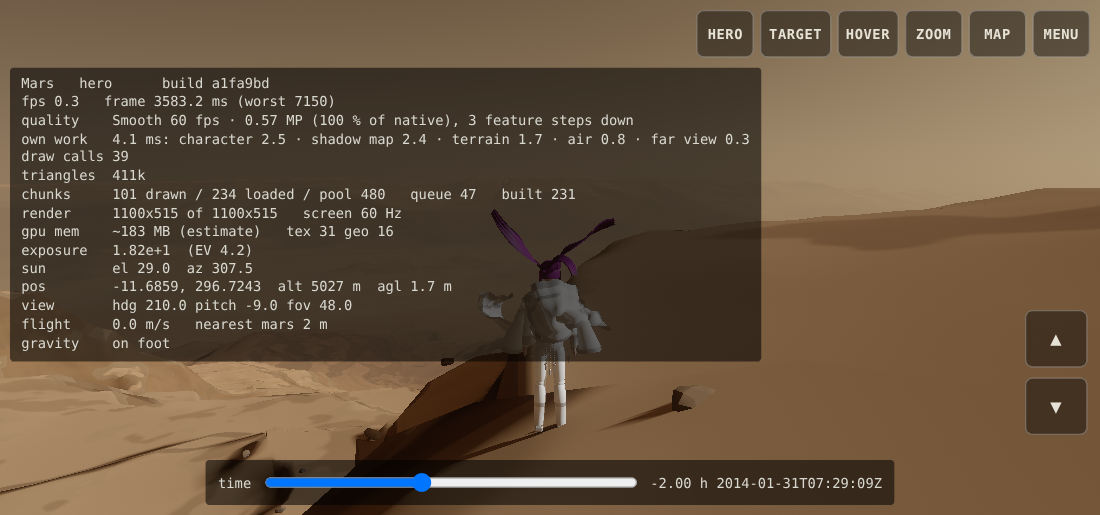
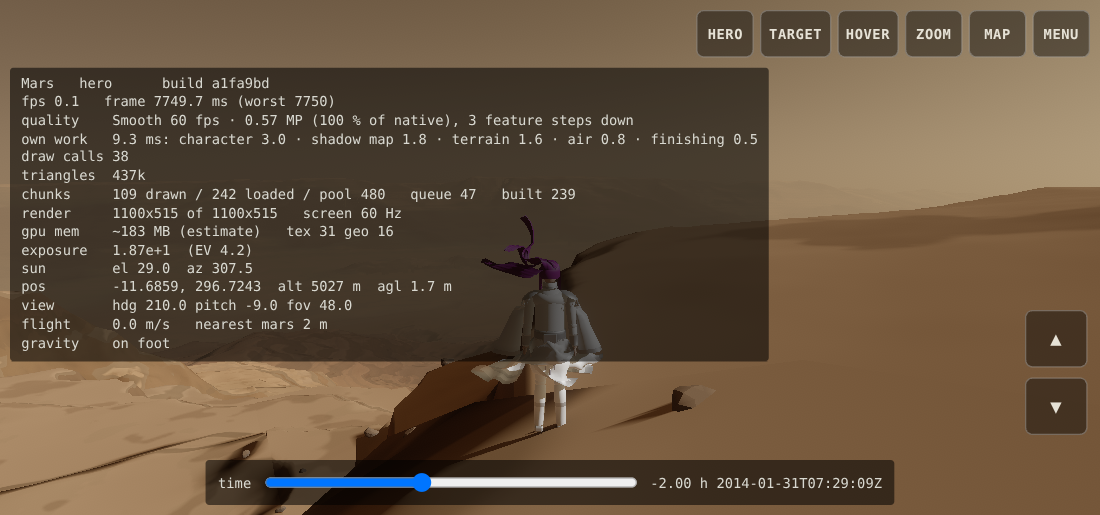
Notes: what was tested on the final build
Claude-Session: https://claude.ai/code/session_01XG1DZ692FjkSqnhW4EMsP8

diff --git a/docs/PROGRESS.md b/docs/PROGRESS.md
@@ -664,7 +664,21 @@ say finding by finding what was done.
 and shortens the far forest; `trees-far` now brings the trees' full shapes nearer (it used
 to shorten their radius, which only moved the hand-over).
 
-**Tested** (on the final frozen build, a1fa9bd and later): TESTED
+**Tested** (on the final frozen build, a1fa9bd and later): `./scripts/build-check.sh`; `npm run smoke` (on Mars: 16 checks; 22 shaders, every one
+within a phone's limits, the ground's at 16 of 16 textures); `npm run foot`;
+`npm run shadowturns`; without a browser `govsim`, `lakes`, `check-ephemeris`,
+`transfer`, `far-trees-test`, `far-forest-clock`, `npm run rocks`, `rig-over-rock`,
+`grass-anchor-replay`. `node scripts/smoke.mjs --haven` (the Haven benchmark as the owner will run it): the start screen, the three-minute lap with the flight to the Moon, and every switch of the cost test at the opening view, without an error; its other two views (in the forest, from the air) were still being measured when this was merged, and on the build of four hours earlier the forest view had got through 50 of its 59 measures before the run was stopped for time.
+Pictures on that build (`scratchpad/fin14`; the helpers' own are in `docs/shots/far-*`):
+the opening view (158 draw calls, 1.70 M triangles handed over; 111 and 0.95 M before),
+87 m over it (144, 1.59 M), the steppe at eye
+height (68, 1.19 M), the steep rocky place from 100 m (71, 1.28 M), the opening view with
+every saving on (79, 0.96 M), Earth's opening view (138, 1.71 M: the same scene as before).
+The hillside that had hatched was looked at at a phone's pixel density (a lens of 21.4
+degrees at 309 pixels). The helpers' stability moves: a walk at a wood (the same numbers
+as the branch as found), a walk on the steppe, a walk among rocks (flicker 0.03 %).
+**Not run**: the full reference set, `flight`, `target`, `worlds`, any stability move on
+the final build. Nothing was seen in motion.
 
 **Left for later, known**:
 - The ground's grass colour, share and flower kinds within about a kilometre are those of
